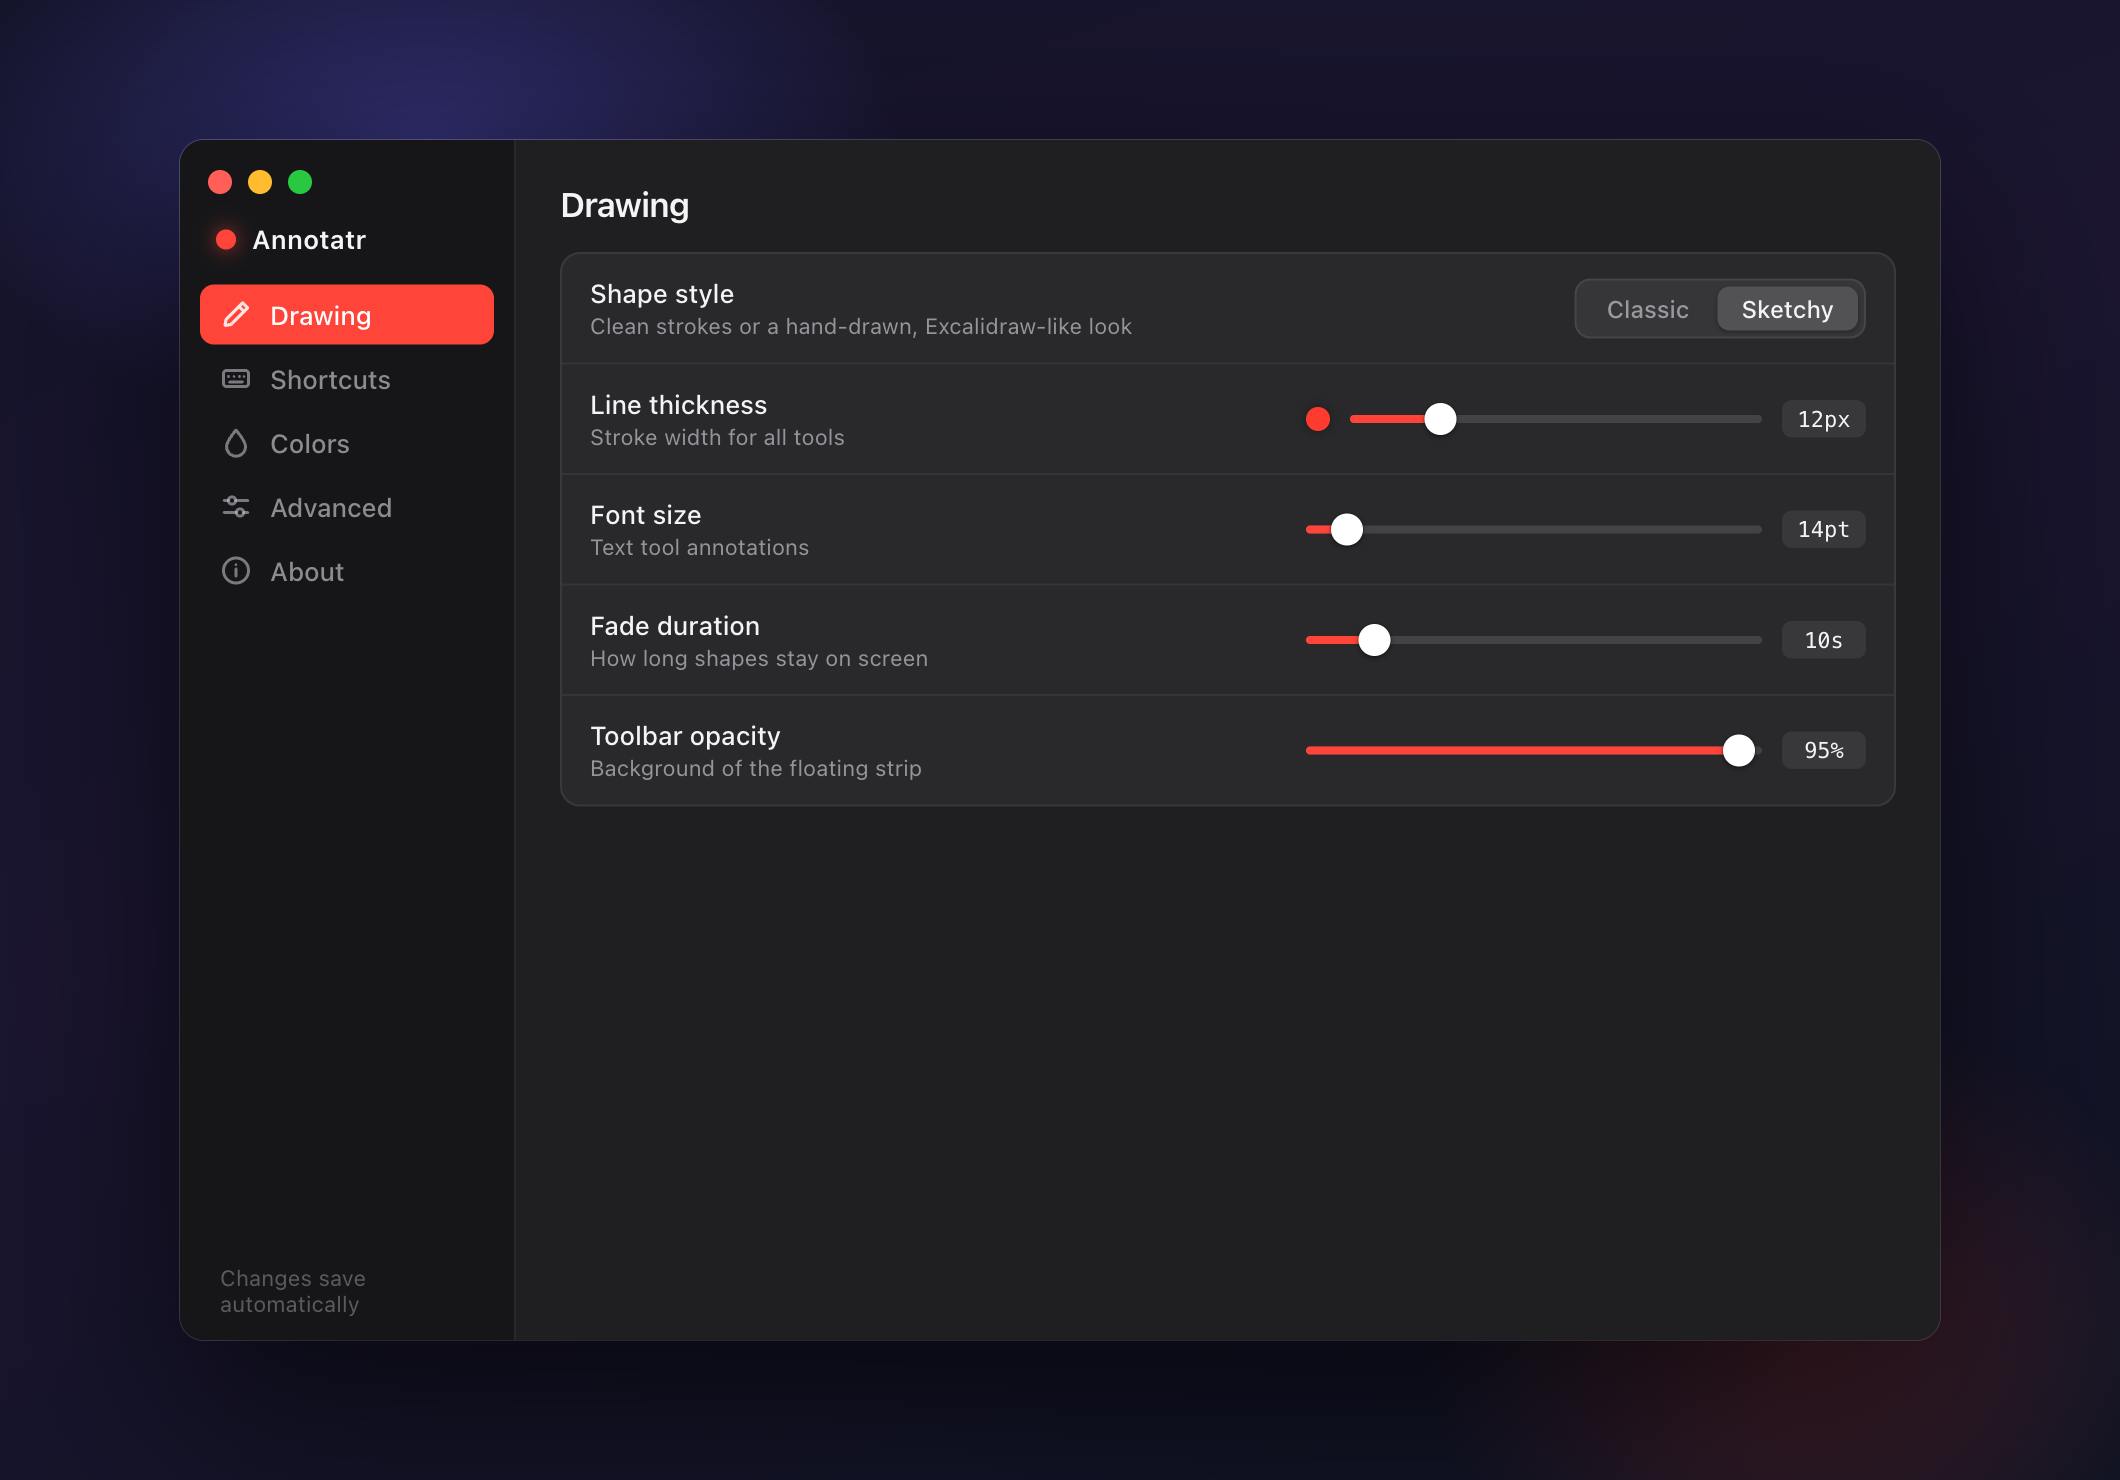
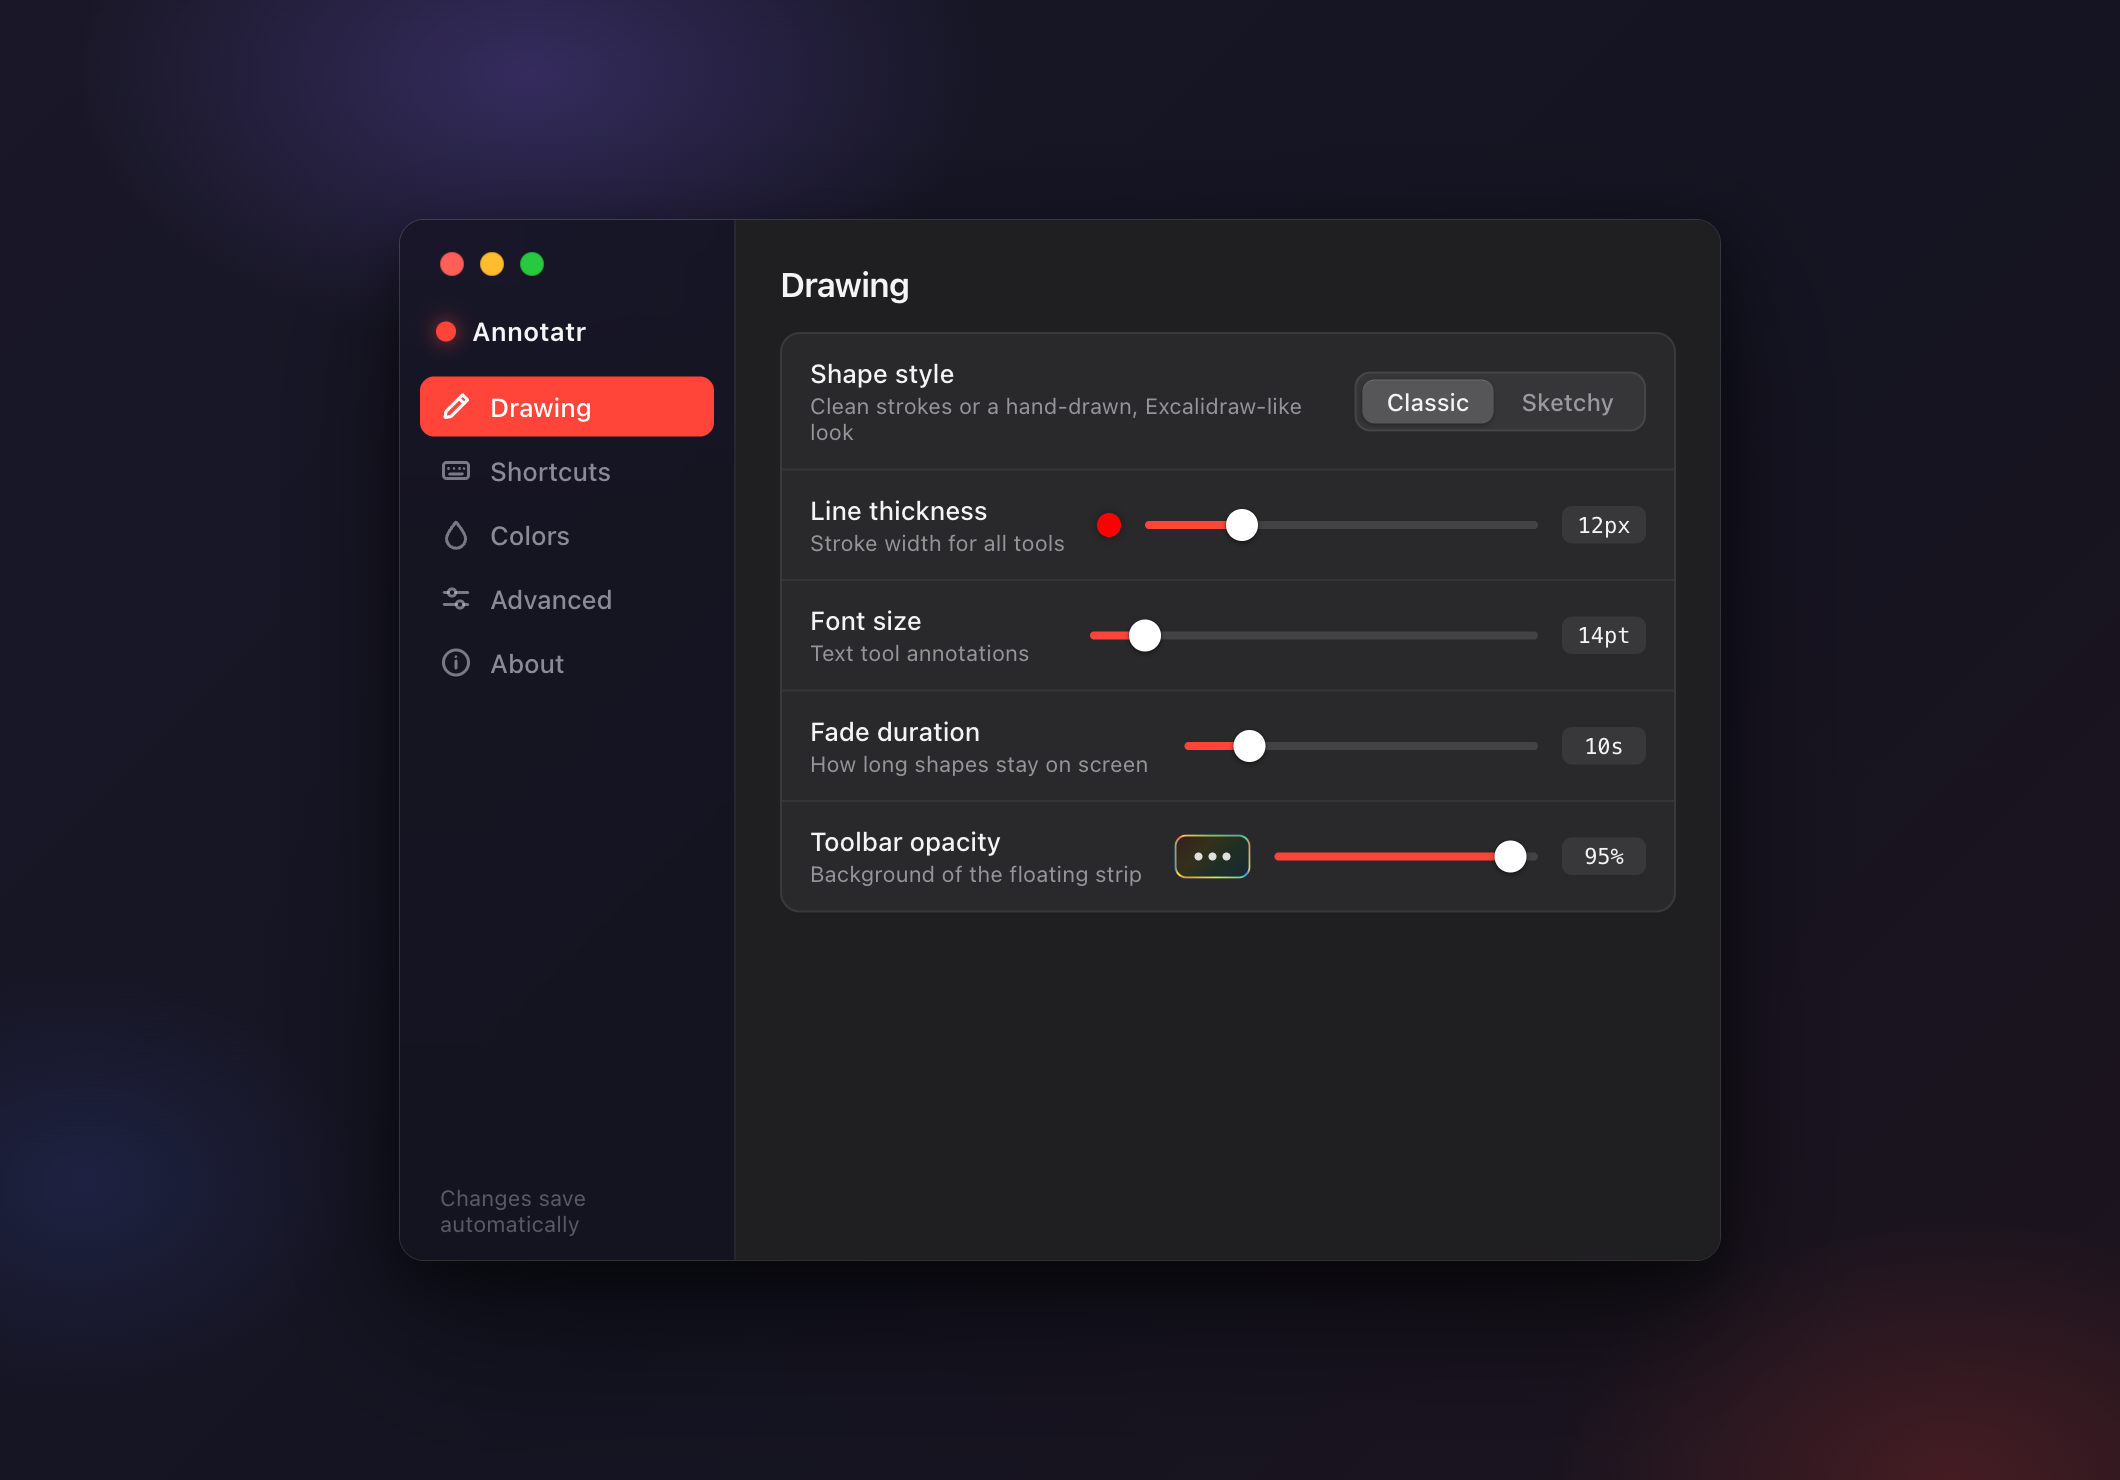
docs: refresh screenshots for native redesign, add README teaser
Regenerate toolbar.png and settings.png to match the new native macOS
UI (SVG icons, system-blue active state, vibrancy sidebar with overlay
title bar). Update the landing page's live demo bar to the same design,
and add a screenshot teaser to the README (toolbar hero, Classic vs
Sketchy overlays, settings window).

diff --git a/docs/index.html b/docs/index.html
@@ -156,18 +156,26 @@
     background: rgba(28, 28, 30, 0.92);
     border-bottom: 1px solid var(--hairline-faint);
   }
-  .demo-bar .grip { color: rgba(255,255,255,.35); font-size: 14px; letter-spacing: -2px; padding: 0 4px; user-select: none; }
+  .demo-bar .grip { color: rgba(255,255,255,.32); display: inline-flex; align-items: center; padding: 0 4px; user-select: none; }
   .tb {
     width: 36px; height: 36px; display: inline-flex; align-items: center; justify-content: center;
-    font-size: 17px; color: rgba(255,255,255,.85);
+    color: rgba(255,255,255,.85);
     background: transparent; border: none; border-radius: 8px; cursor: pointer;
-    transition: background .12s;
+    transition: background .12s, color .12s;
   }
-  .tb:hover { background: rgba(255,255,255,.1); }
-  .tb.on { background: #2563eb; color: #fff; }
+  .tb:hover { background: rgba(255,255,255,.1); color: #fff; }
+  .tb.on {
+    background: #0a84ff; color: #fff;
+    box-shadow: inset 0 0.5px 0 rgba(255,255,255,.25), 0 1px 3px rgba(10,132,255,.4);
+  }
   .tb:disabled { opacity: .35; cursor: default; }
-  .demo-div { width: 1px; height: 24px; background: rgba(255,255,255,.18); margin: 0 6px; }
-  .swatch-btn { width: 28px; height: 28px; border-radius: 6px; border: 2px solid rgba(255,255,255,.6); cursor: pointer; padding: 0; margin: 0 4px; background: #FF3B30; }
+  .demo-div { width: 1px; height: 24px; background: rgba(255,255,255,.14); margin: 0 6px; }
+  .swatch-btn {
+    width: 28px; height: 28px; border-radius: 8px; border: none; cursor: pointer; padding: 0; margin: 0 4px; background: #FF3B30;
+    box-shadow: inset 0 0 0 1px rgba(255,255,255,.35), inset 0 -2px 4px rgba(0,0,0,.18), 0 1px 2px rgba(0,0,0,.3);
+    transition: transform .1s;
+  }
+  .swatch-btn:hover { transform: scale(1.08); }
   .seg {
     display: inline-flex; gap: 2px; padding: 3px; margin-left: auto;
     background: rgba(255,255,255,.06); border: 1px solid var(--hairline); border-radius: 8px;
@@ -400,19 +408,19 @@
     <div class="demo-hint" id="demoHint">↓ this is a live demo — pick a tool and drag ↓</div>
     <div class="demo-shell reveal">
       <div class="demo-bar" id="demoBar">
-        <span class="grip">⋮⋮</span>
-        <button class="tb on" data-tool="arrow" title="Arrow">↗</button>
-        <button class="tb" data-tool="circle" title="Circle">○</button>
-        <button class="tb" data-tool="box" title="Box">□</button>
-        <button class="tb" data-tool="freehand" title="Freehand">✎</button>
-        <button class="tb" data-tool="highlighter" title="Highlighter">▭</button>
-        <button class="tb" data-tool="text" title="Text">T</button>
+        <span class="grip"><svg width="10" height="18" viewBox="0 0 10 18" fill="currentColor"><circle cx="3" cy="5" r="1.1"/><circle cx="3" cy="9" r="1.1"/><circle cx="3" cy="13" r="1.1"/><circle cx="7" cy="5" r="1.1"/><circle cx="7" cy="9" r="1.1"/><circle cx="7" cy="13" r="1.1"/></svg></span>
+        <button class="tb on" data-tool="arrow" title="Arrow"><svg width="18" height="18" viewBox="0 0 18 18" fill="none" stroke="currentColor" stroke-width="1.6" stroke-linecap="round" stroke-linejoin="round"><path d="M4 14L14 4M14 4H8M14 4v6"/></svg></button>
+        <button class="tb" data-tool="circle" title="Circle"><svg width="18" height="18" viewBox="0 0 18 18" fill="none" stroke="currentColor" stroke-width="1.6"><circle cx="9" cy="9" r="6"/></svg></button>
+        <button class="tb" data-tool="box" title="Box"><svg width="18" height="18" viewBox="0 0 18 18" fill="none" stroke="currentColor" stroke-width="1.6"><rect x="3" y="4" width="12" height="10" rx="2"/></svg></button>
+        <button class="tb" data-tool="freehand" title="Freehand"><svg width="18" height="18" viewBox="0 0 18 18" fill="none" stroke="currentColor" stroke-width="1.6" stroke-linecap="round" stroke-linejoin="round"><path d="M11.6 3.3a1.85 1.85 0 0 1 3.1 1.3c0 .5-.2 1-.55 1.35L6.2 14 2.8 15l1-3.4z"/><path d="M10.4 4.6l3 3"/></svg></button>
+        <button class="tb" data-tool="highlighter" title="Highlighter"><svg width="18" height="18" viewBox="0 0 18 18" fill="none" stroke="currentColor" stroke-width="1.6" stroke-linecap="round" stroke-linejoin="round"><path d="M10.2 3.6l4.2 4.2-5.6 5.6-4.2-4.2z"/><path d="M4.6 9.2L3.2 12.4l2.4 2.4 3.2-1.4"/><path d="M2.5 15.8h5"/></svg></button>
+        <button class="tb" data-tool="text" title="Text"><svg width="18" height="18" viewBox="0 0 18 18" fill="none" stroke="currentColor" stroke-width="1.6" stroke-linecap="round"><path d="M4 4.6h10M9 4.6V14"/></svg></button>
         <span class="demo-div"></span>
         <button class="swatch-btn" id="swatchBtn" title="Tool color"></button>
         <input type="color" id="colorInput" value="#FF3B30" style="position:absolute;width:0;height:0;opacity:0;pointer-events:none;">
         <span class="demo-div"></span>
-        <button class="tb" id="undoBtn" title="Undo last shape">↩</button>
-        <button class="tb" id="clearBtn" title="Clear all">✕</button>
+        <button class="tb" id="undoBtn" title="Undo last shape"><svg width="18" height="18" viewBox="0 0 18 18" fill="none" stroke="currentColor" stroke-width="1.6" stroke-linecap="round" stroke-linejoin="round"><path d="M6.4 4.6L3.6 7.4l2.8 2.8"/><path d="M3.6 7.4h7.2a3.4 3.4 0 1 1 0 6.8H8.2"/></svg></button>
+        <button class="tb" id="clearBtn" title="Clear all"><svg width="18" height="18" viewBox="0 0 18 18" fill="none" stroke="currentColor" stroke-width="1.6" stroke-linecap="round"><path d="M4.8 4.8l8.4 8.4M13.2 4.8l-8.4 8.4"/></svg></button>
         <span class="seg" id="styleSeg">
           <button class="active" data-style="classic">Classic</button>
           <button data-style="sketchy">Sketchy</button>

diff --git a/README.md b/README.md
@@ -4,6 +4,16 @@
 
 A cross-platform screen annotation overlay tool that lets you draw arrows, circles, boxes, freehand strokes, highlights, and text on your screen in real-time — perfect for tutorials, presentations, and screen recordings with any capture software (OBS, Loom, Zoom, etc.).
 
+<p align="center">
+  <img src="docs/assets/toolbar.png" alt="Annotatr's floating toolbar: six drawing tools, color swatch, undo, clear, settings, and quit" width="620">
+</p>
+
+| Classic strokes | Sketchy (hand-drawn) |
+|:---:|:---:|
+| ![Clean classic-style annotations drawn over an app](docs/assets/overlay-classic.png) | ![Hand-drawn sketchy-style annotations drawn over an app](docs/assets/overlay-sketchy.png) |
+
+<p align="center"><em>Summon the toolbar with a hotkey, draw live over any app, and let shapes fade away on their own — <a href="https://dennisrongo.github.io/annotatr/">try the live demo</a>.</em></p>
+
 ## Features
 
 - **6 Drawing Tools**: Arrow, Circle, Box, Freehand, Highlighter, and Text
@@ -77,6 +87,10 @@ A cross-platform screen annotation overlay tool that lets you draw arrows, circl
 | Toggle edit mode (click a shape to restyle or delete it) | `Ctrl/Cmd+E` |
 
 ### Settings
+
+<p align="center">
+  <img src="docs/assets/settings.png" alt="Annotatr's settings window with native macOS chrome, showing the Drawing tab" width="640">
+</p>
 
 The Settings window (gear icon on the toolbar) is organized into tabs:
 